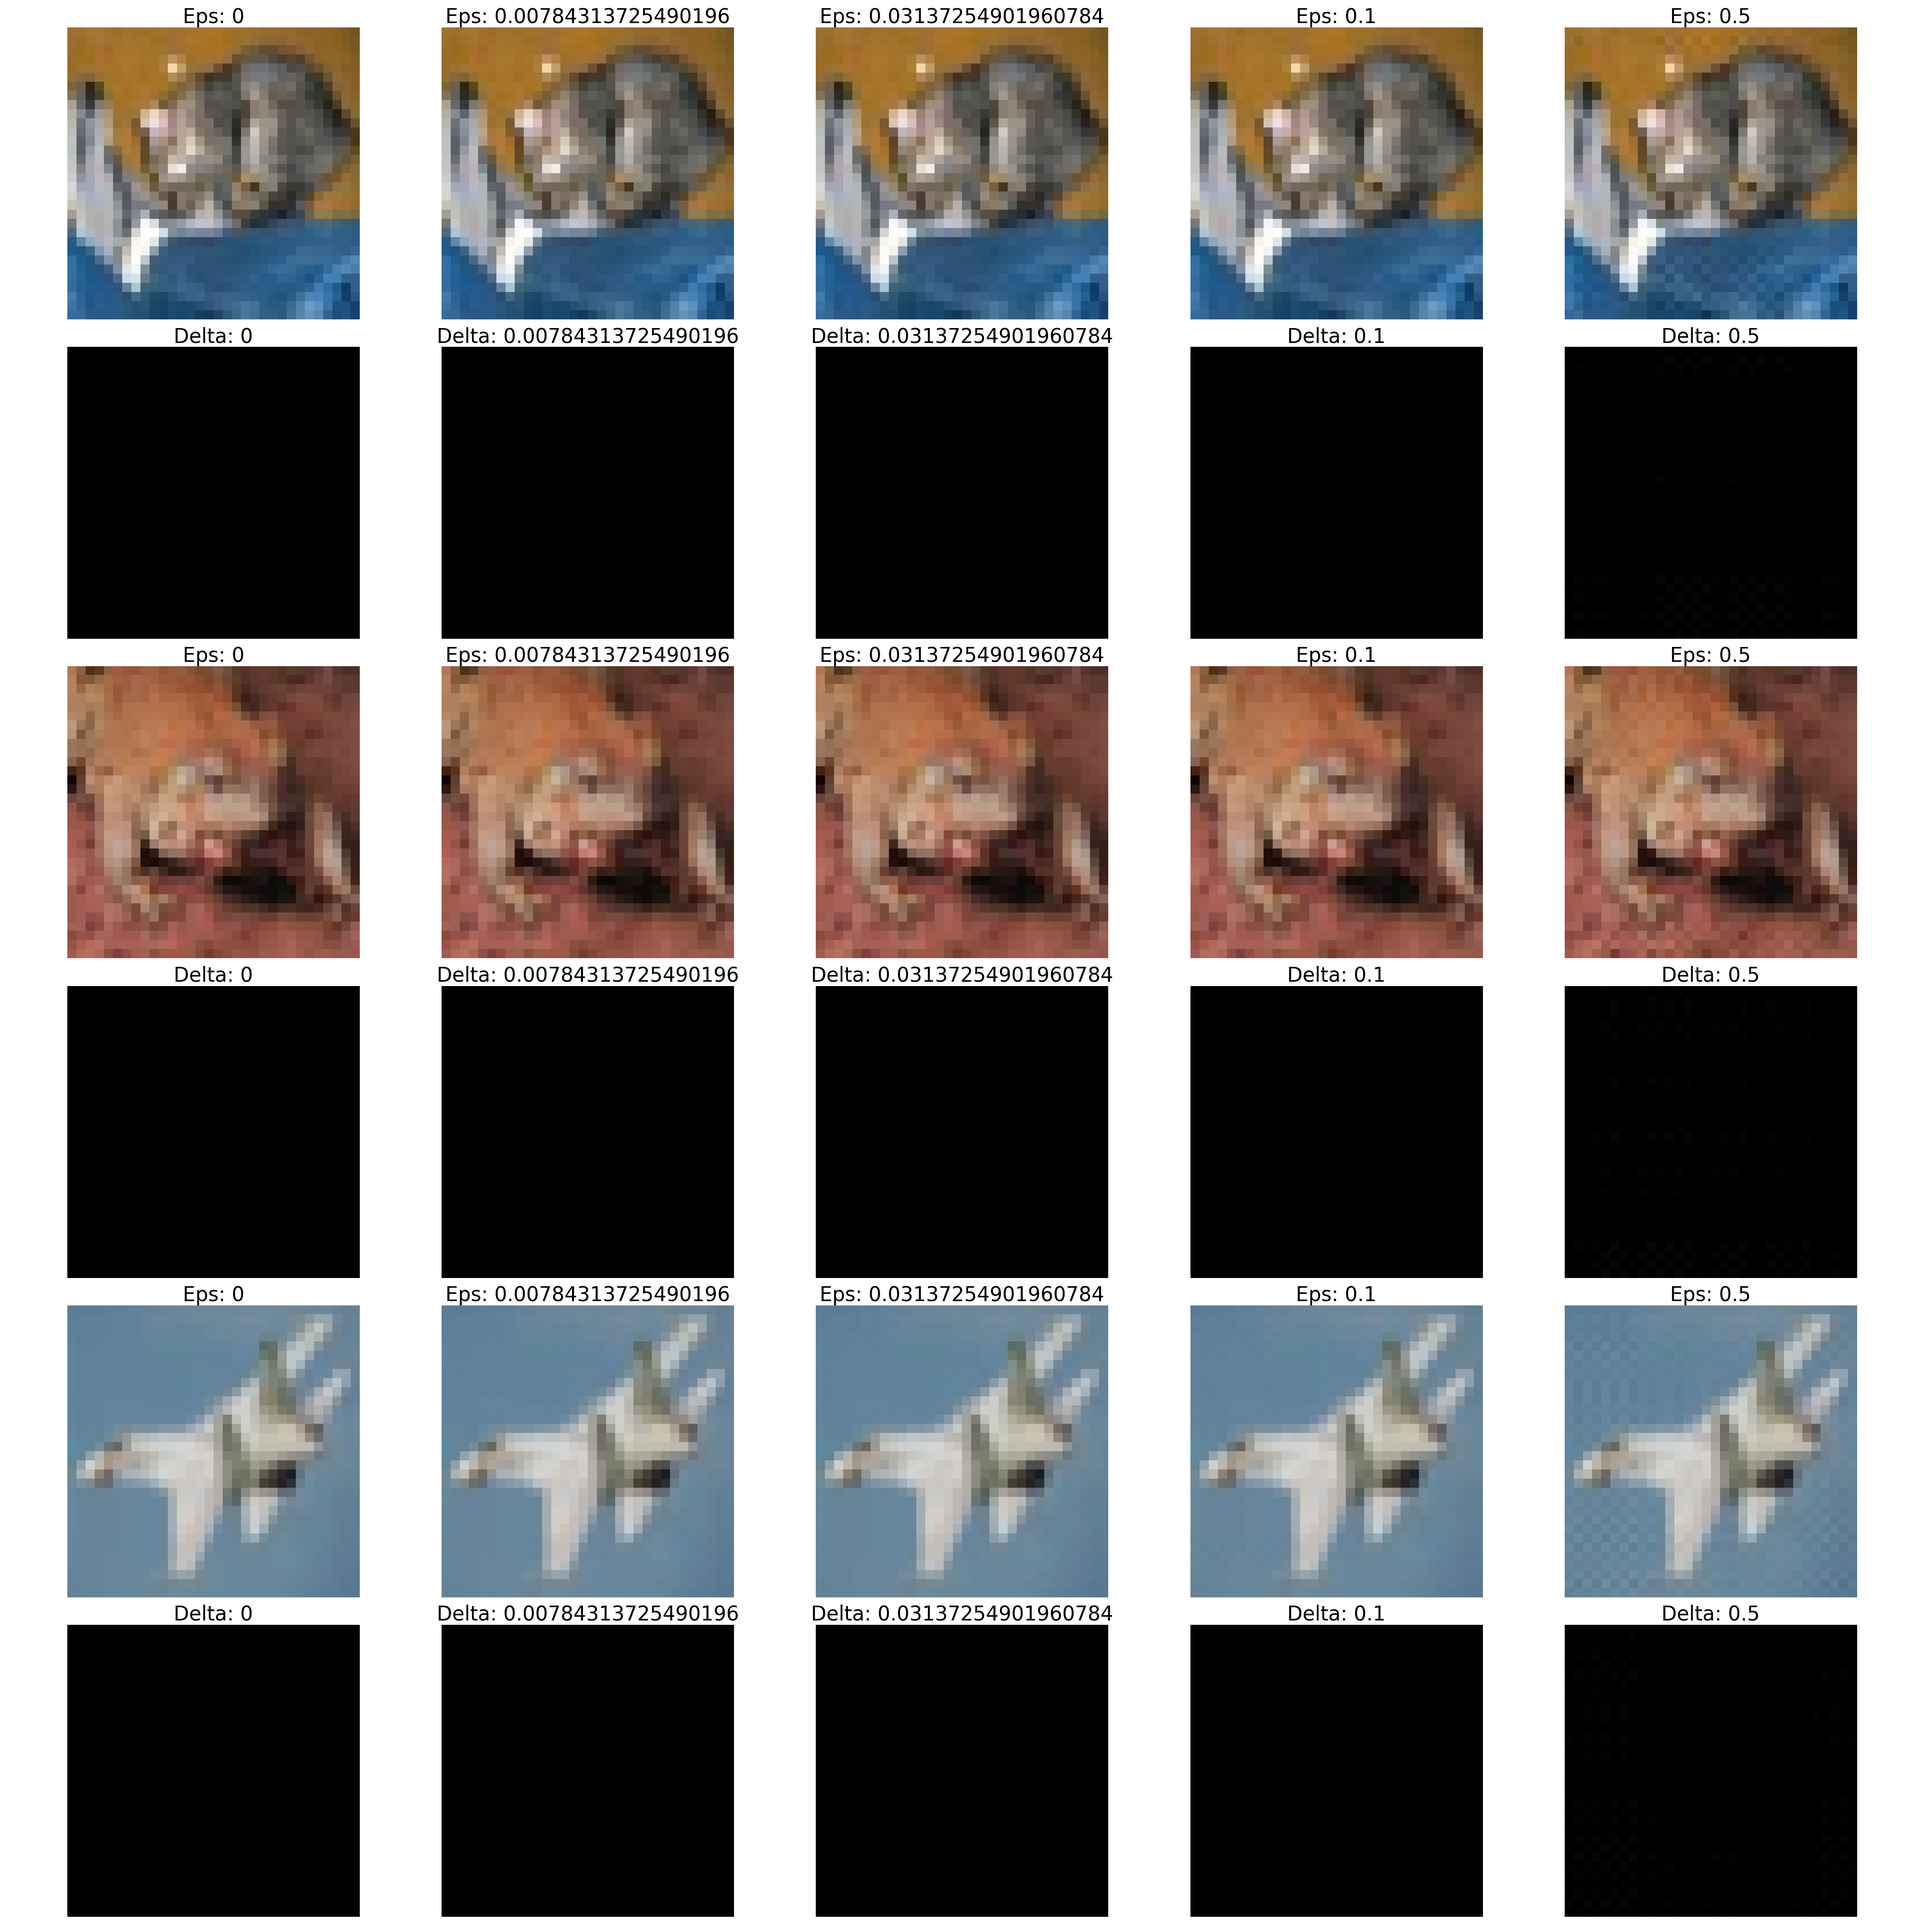
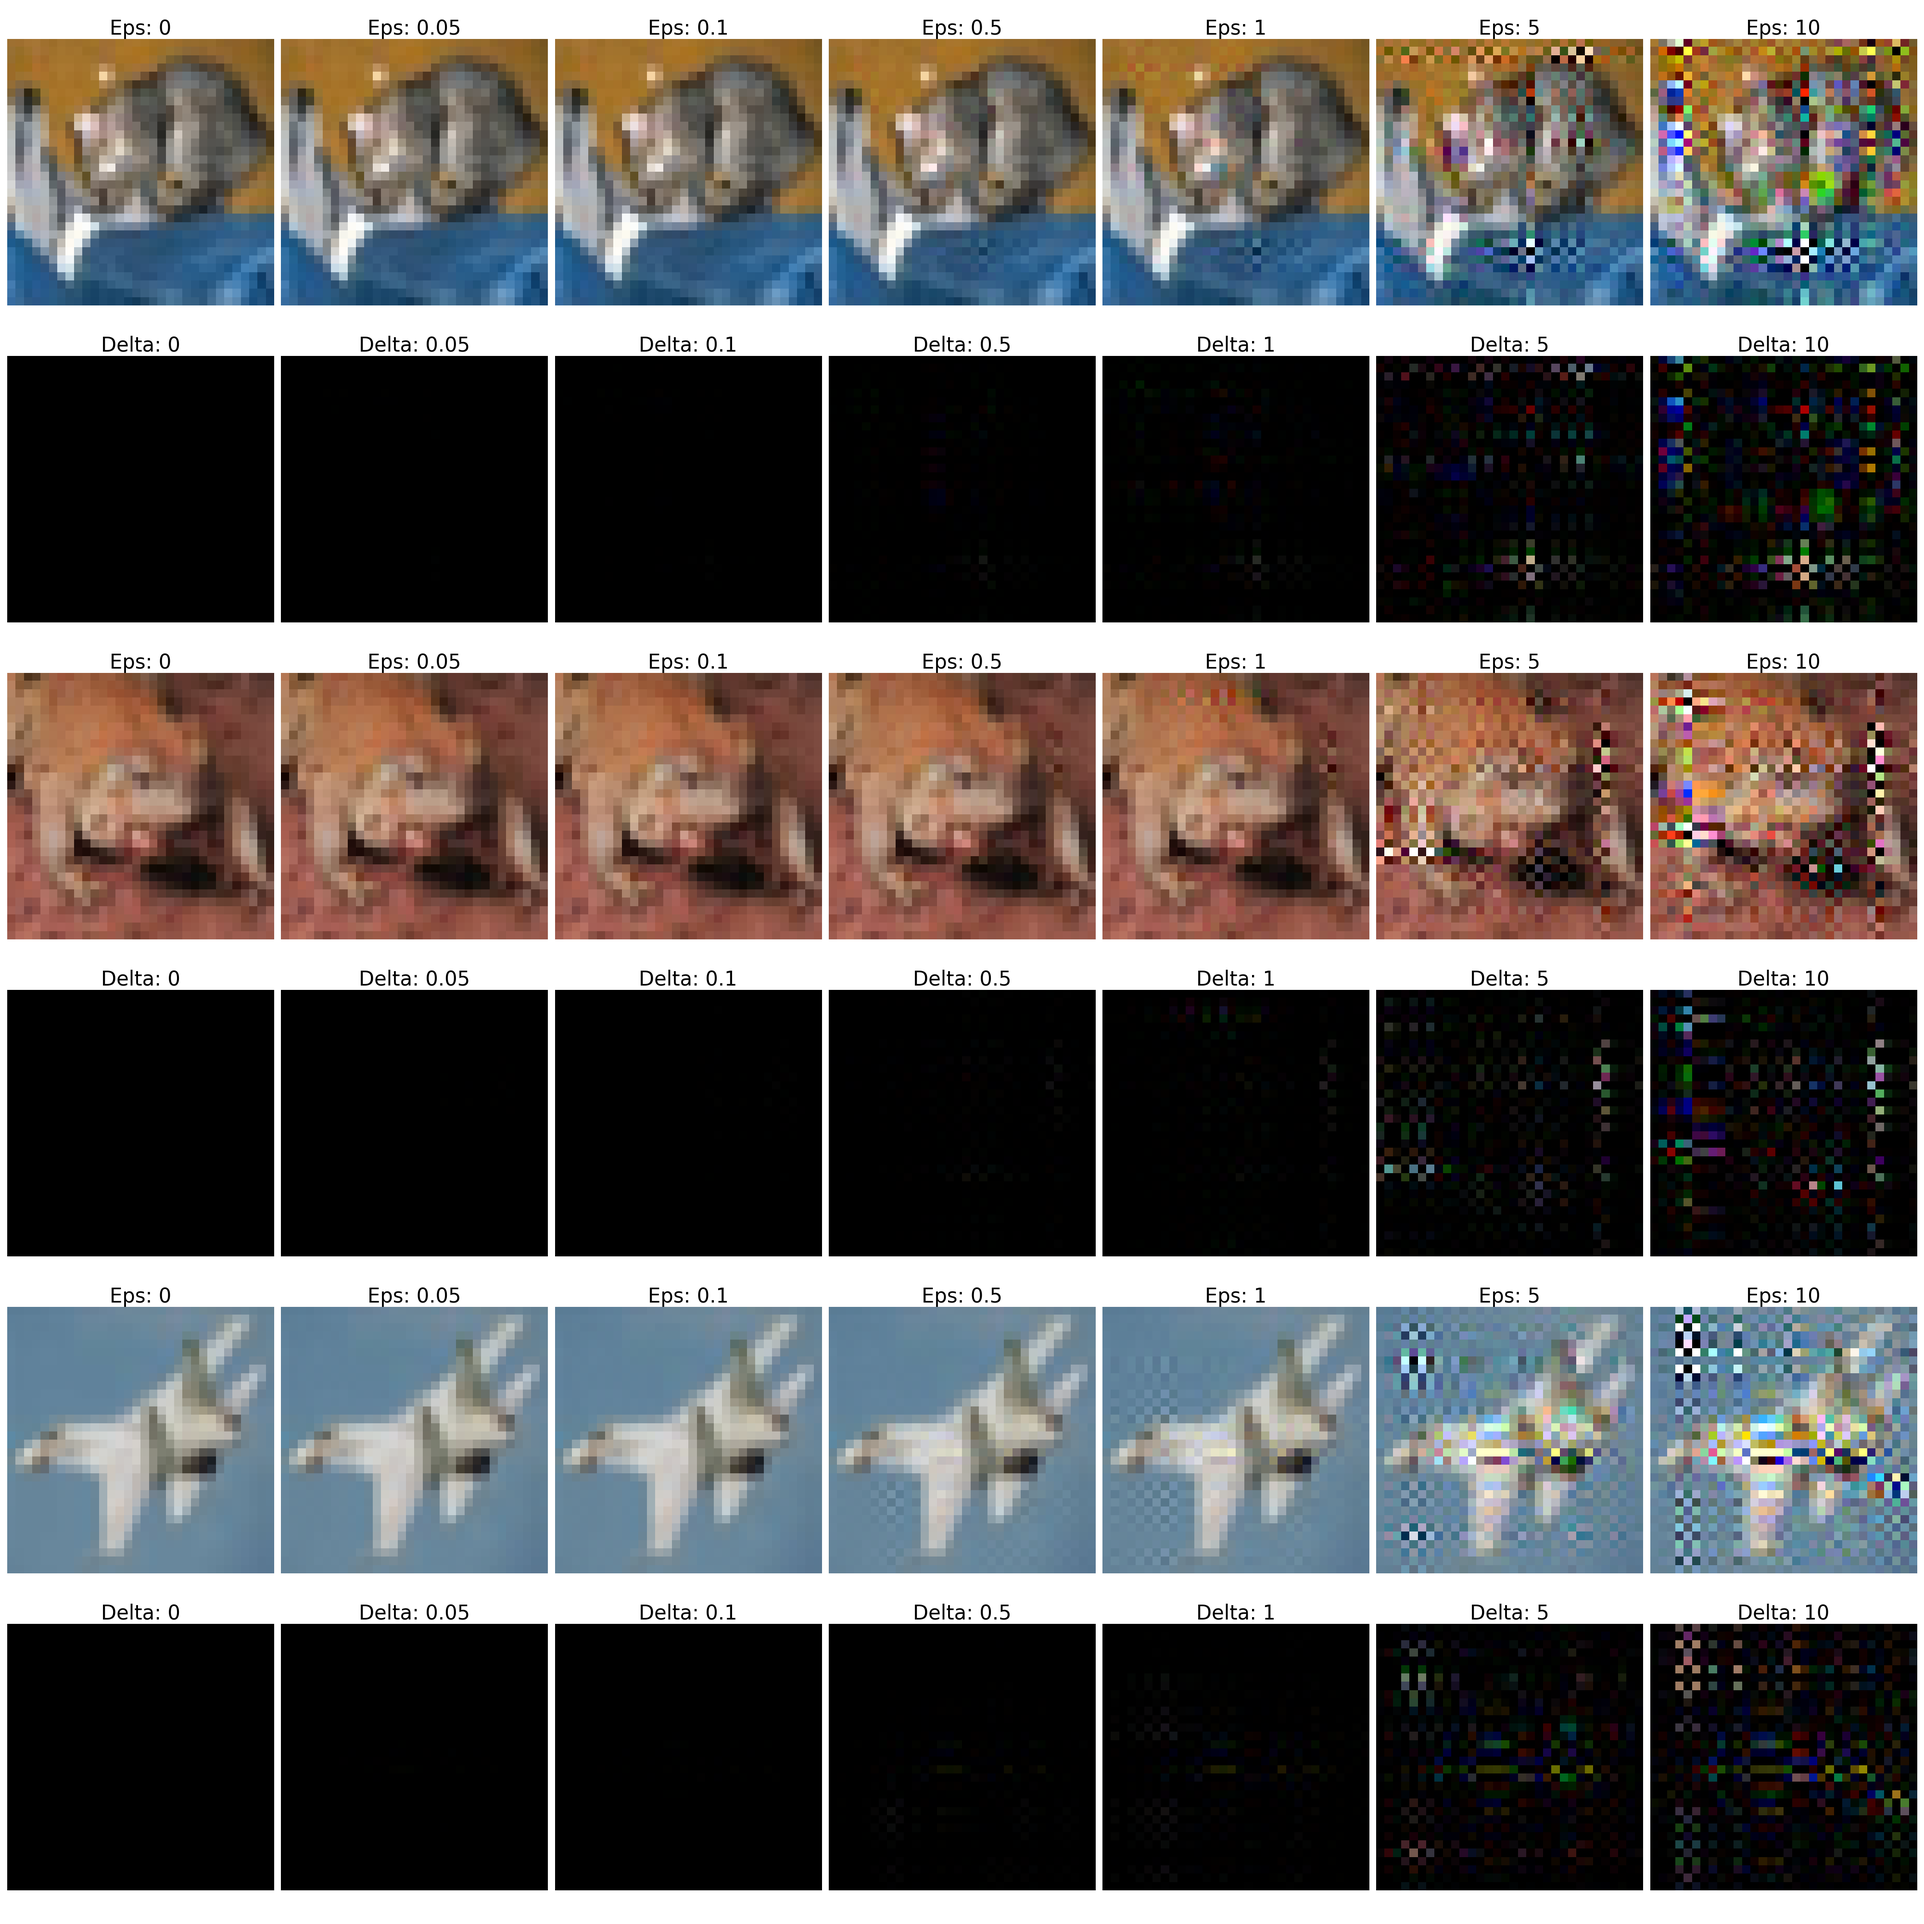
update

diff --git a/util/attacks.py b/util/attacks.py
@@ -31,5 +31,83 @@ def pgd_attack(model, images, labels, eps, alpha, iters=40):
         images = torch.clamp(original_images + eta, 0, 1).detach_()
     return images
 
+def LP_nuclear_gpu(D: torch.Tensor, radius: float, device='cpu') -> torch.Tensor:
+    assert isinstance(D, torch.Tensor), "Input must be a PyTorch tensor."
+    # 假设 'D' 已经是一个至少三维的张量，形状可能是 (C, H, W) 或 (B, C, H, W)
+    if D.ndim == 3:
+        D = D.unsqueeze(0)  # 将其转换为 (1, C, H, W)
+    # 假设 device 和 radius 已经定义
+    v_FW = torch.zeros_like(D).to(device)
+    # 对每个批次和每个通道应用 SVD
+    for i in range(D.size(0)):  # 遍历批次
+        for j in range(D.size(1)):  # 遍历通道
+            U, _, V = torch.svd(D[i, j])
+            # 使用广播机制处理向量外积
+            v_FW[i, j] = radius * (U[:, 0:1] @ V[:, 0:1].t())
+    # 如果原始 'D' 是三维的，去除添加的批次维度
+    if D.size(0) == 1 and D.ndim == 3:
+        v_FW = v_FW.squeeze(0)
+    return v_FW
 
-# test
+def FW_nuclear_attack(model, images, labels, radius=1, eps=1e-10, step_size=0.1, T_max=40, device='cpu'):
+    criterion = torch.nn.CrossEntropyLoss()
+    perturbation = torch.zeros_like(images).to(device)
+    perturbation.requires_grad_()
+    for iteration in range(T_max):
+        outputs = model(images + perturbation)
+        loss = -criterion(outputs, labels)
+        grad = torch.autograd.grad(loss, perturbation)[0]
+        # Compute optimal perturbation
+        v_FW = LP_nuclear_gpu(-grad, radius, device=device)
+        step_size = step_size * 1.0 / (iteration + 1)
+        perturbation.data += step_size * (v_FW - perturbation)
+        # Early stopping if the gradient updates become very small
+        if torch.norm(grad) < eps:
+            break
+    adv_images = torch.clamp(images + perturbation.detach(), 0, 1)
+    return adv_images
+
+def LP_spectral_gpu(D: torch.Tensor, radius: float, device='cpu') -> torch.Tensor:
+    assert isinstance(D, torch.Tensor), "Input must be a PyTorch tensor."
+    # 假设 'D' 已经是一个至少三维的张量，形状可能是 (C, H, W) 或 (B, C, H, W)
+    if D.ndim == 3:
+        D = D.unsqueeze(0)  # 将其转换为 (1, C, H, W)
+    k = max(1, int(D.size(2) * 1))  # 假设 k 是通道数的 60%
+    # 创建一个尺寸为 (k, k) 的对角矩阵，对角线元素为 radius
+    diag_matrix = torch.diag(torch.full((k,), radius, dtype=torch.float)).to(device)
+    # 创建一个与 D 形状相同的张量来存储结果，初始化为 0 并移至相应设备
+    v_FW = torch.zeros_like(D).to(device)
+    # 对每个批次和每个通道应用 SVD
+    for i in range(D.size(0)):  # 遍历批次
+        for j in range(D.size(1)):  # 遍历通道
+            U, _, V = torch.svd(D[i, j])
+            # 仅使用前 k 个奇异向量，确保 U 和 V 至少有 k 列
+            U_k = U[:, :k]
+            V_k = V[:, :k]
+            # 计算外积，并使用对角矩阵进行缩放
+            v_FW[i, j] = (U_k @ diag_matrix @ V_k.t())
+    # 如果原始 'D' 是三维的，去除添加的批次维度
+    if D.size(0) == 1 and D.ndim == 3:
+        v_FW = v_FW.squeeze(0)
+    return v_FW
+
+def FW_spectral_attack(model, images, labels, radius=1, eps=1e-10, step_size=1.0, T_max=40, device='cpu'):
+    criterion = torch.nn.CrossEntropyLoss()
+    perturbation = torch.zeros_like(images).to(device)
+    perturbation.requires_grad_()
+    for iteration in range(T_max):
+        outputs = model(images + perturbation)
+        loss = -criterion(outputs, labels)
+        grad = torch.autograd.grad(loss, perturbation)[0]
+
+        # Compute optimal perturbation
+        v_FW = LP_spectral_gpu(-grad, radius, device=device)
+        step_size = step_size * 1.0 / (iteration + 1)
+        perturbation.data += step_size * (v_FW - perturbation)
+
+        # Early stopping if the gradient updates become very small
+        if torch.norm(grad) < eps:
+            break
+
+    adv_images = torch.clamp(images + perturbation.detach(), 0, 1)
+    return adv_images

diff --git a/run/run_attack.py b/run/run_attack.py
@@ -10,7 +10,7 @@ from util.data_parser import parse_data
 from util.model_utils import model_load
 from util.utility import find_gpu, Logger, progress_bar
 
-from util.attacks import fgsm_attack, pgd_attack, L2_norm_attack, Linf_norm_attack, nuclear_norm_attack
+from util.attacks import fgsm_attack, pgd_attack, FW_nuclear_attack, FW_spectral_attack
 
 # 使用argparse处理命令行参数
 parser = argparse.ArgumentParser(description='PyTorch CIFAR10 Training')
@@ -64,12 +64,16 @@ def test(model, device, test_loader, attack_type, epsilon):
             perturbed_images = fgsm_attack(model, images, labels, epsilon)
         elif attack_type == 'pgd':
             perturbed_images = pgd_attack(model, images, labels, eps=epsilon_pgd, alpha=alpha_pgd, iters=iters_pgd)
-        elif attack_type == 'l2':
-            perturbed_images = L2_norm_attack(model, images, labels, eps=epsilon, alpha=alpha_pgd, iters=iters_pgd, device=device)
-        elif attack_type == 'linf':
-            perturbed_images = Linf_norm_attack(model, images, labels, eps=epsilon_pgd, alpha=alpha_pgd, iters=iters_pgd, device=device)
+        # elif attack_type == 'l2':
+        #     perturbed_images = L2_norm_attack(model, images, labels, eps=epsilon, alpha=alpha_pgd, iters=iters_pgd, device=device)
+        # elif attack_type == 'linf':
+        #     perturbed_images = Linf_norm_attack(model, images, labels, eps=epsilon_pgd, alpha=alpha_pgd, iters=iters_pgd, device=device)
+        # elif attack_type == 'nuclear':
+        #     perturbed_images = nuclear_norm_attack(model, images, labels, eps=epsilon_pgd, alpha=alpha_pgd, iters=iters_pgd, device=device)
         elif attack_type == 'nuclear':
-            perturbed_images = nuclear_norm_attack(model, images, labels, eps=epsilon_pgd, alpha=alpha_pgd, iters=iters_pgd, device=device)
+            perturbed_images = FW_nuclear_attack(model, images, labels, radius=0.1, eps=1e-10, step_size=1.0, T_max=40, device=device)
+        elif attack_type == 'spectral':
+            perturbed_images = FW_spectral_attack(model, images, labels, radius=0.1, eps=1e-10, step_size=1.0, T_max=40, device=device)
 
         outputs = model(perturbed_images)
         _, predicted = torch.max(outputs.data, 1)
@@ -87,8 +91,8 @@ def test(model, device, test_loader, attack_type, epsilon):
 
 
 # 运行测试
-print('fgsm')
-test(model, device, testloader, 'fgsm', epsilon_pgd)
+# print('fgsm')
+# test(model, device, testloader, 'fgsm', epsilon_pgd)
 
 # print('l2')
 # test(model, device, testloader, 'l2', epsilon_pgd)
@@ -96,10 +100,13 @@ test(model, device, testloader, 'fgsm', epsilon_pgd)
 # print('nuclear')
 # test(model, device, testloader, 'nuclear', epsilon_pgd)
 
+print('spectral')
+test(model, device, testloader, 'nuclear', epsilon_pgd)
+
 # print('pgd')
 # test(model, device, testloader, 'pgd', epsilon_pgd)
 
-print('linf')
-test(model, device, testloader, 'linf', epsilon_pgd)
+# print('linf')
+# test(model, device, testloader, 'linf', epsilon_pgd)
 
 

diff --git a/run/plot_perturbed_images copy.py b/run/plot_perturbed_images copy.py
@@ -10,7 +10,7 @@ import matplotlib.pyplot as plt
 from util.data_parser import parse_data
 from util.model_utils import model_load
 from util.utility import find_gpu, Logger
-from util.attacks import fgsm_attack, pgd_attack, L2_norm_attack, Linf_norm_attack, nuclear_norm_attack
+from util.attacks import fgsm_attack, pgd_attack, FW_nuclear_attack, FW_spectral_attack
 
 def imshow(img_T, ax, title=None):
     """显示单个图像的函数，进行反标准化并调整维度以适配 matplotlib 显示"""
@@ -37,9 +37,9 @@ _, _, testloader, _ = parse_data(name=dataset, batch_size=batch_size, valid_rati
 
 model = model_load(dataset=dataset, model_type=model_type, model_path='./checkpoint', normalize=None).to(device).eval()
 
-epsilons = [0, 0.05, 0.5]
+epsilons = [0, 0.05, 0.1, 0.5, 1, 5, 10]
 # attack_types = ['fgsm', 'pgd', 'l2', 'linf', 'nuclear']
-attack_types = ['fgsm', 'linf']
+attack_types = ['nuclear', 'spectral']
 alpha_pgd = 1
 iters_pgd = 10
 
@@ -57,12 +57,16 @@ for attack_type in attack_types:
                 perturbed_images = fgsm_attack(model, images, labels, epsilon)
             elif attack_type == 'pgd':
                 perturbed_images = pgd_attack(model, images, labels, eps=epsilon, alpha=alpha_pgd, iters=iters_pgd)
-            elif attack_type == 'l2':
-                perturbed_images = L2_norm_attack(model, images, labels, eps=epsilon, alpha=alpha_pgd, iters=iters_pgd, device=device)
-            elif attack_type == 'linf':
-                perturbed_images = Linf_norm_attack(model, images, labels, eps=epsilon, alpha=alpha_pgd, iters=iters_pgd, device=device)
+            # elif attack_type == 'l2':
+            #     perturbed_images = L2_norm_attack(model, images, labels, eps=epsilon, alpha=alpha_pgd, iters=iters_pgd, device=device)
+            # elif attack_type == 'linf':
+            #     perturbed_images = Linf_norm_attack(model, images, labels, eps=epsilon, alpha=alpha_pgd, iters=iters_pgd, device=device)
+            # elif attack_type == 'nuclear':
+            #     perturbed_images = nuclear_norm_attack(model, images, labels, eps=epsilon, alpha=alpha_pgd, iters=iters_pgd, device=device)
             elif attack_type == 'nuclear':
-                perturbed_images = nuclear_norm_attack(model, images, labels, eps=epsilon, alpha=alpha_pgd, iters=iters_pgd, device=device)
+                perturbed_images = FW_nuclear_attack(model, images, labels, radius=epsilon, eps=1e-10, step_size=1.0, T_max=40, device=device)
+            elif attack_type == 'spectral':
+                perturbed_images = FW_spectral_attack(model, images, labels, radius=epsilon, eps=1e-10, step_size=1.0, T_max=40, device=device)
             
             perturbed_data_np = perturbed_images.detach().cpu()
 

diff --git a/util/test.py b/util/test.py
@@ -1,0 +1,13 @@
+import torch
+
+# 假设的张量形状和设备
+U = torch.randn(32, 32, device='cuda:9')
+V = torch.randn(32, 32, device='cuda:9')
+v_FW = torch.zeros((1, 1, 32, 32), device='cuda:9')  # 假设的目标张量
+
+# 尝试复现操作
+try:
+    v_FW[0, 0] = 1.5 * (U[:, 0:1] @ V[:, 0:1].t())  # 简化的类似操作
+    print("Operation successful, result:", v_FW[0, 0])
+except Exception as e:
+    print("Error occurred:", e)
